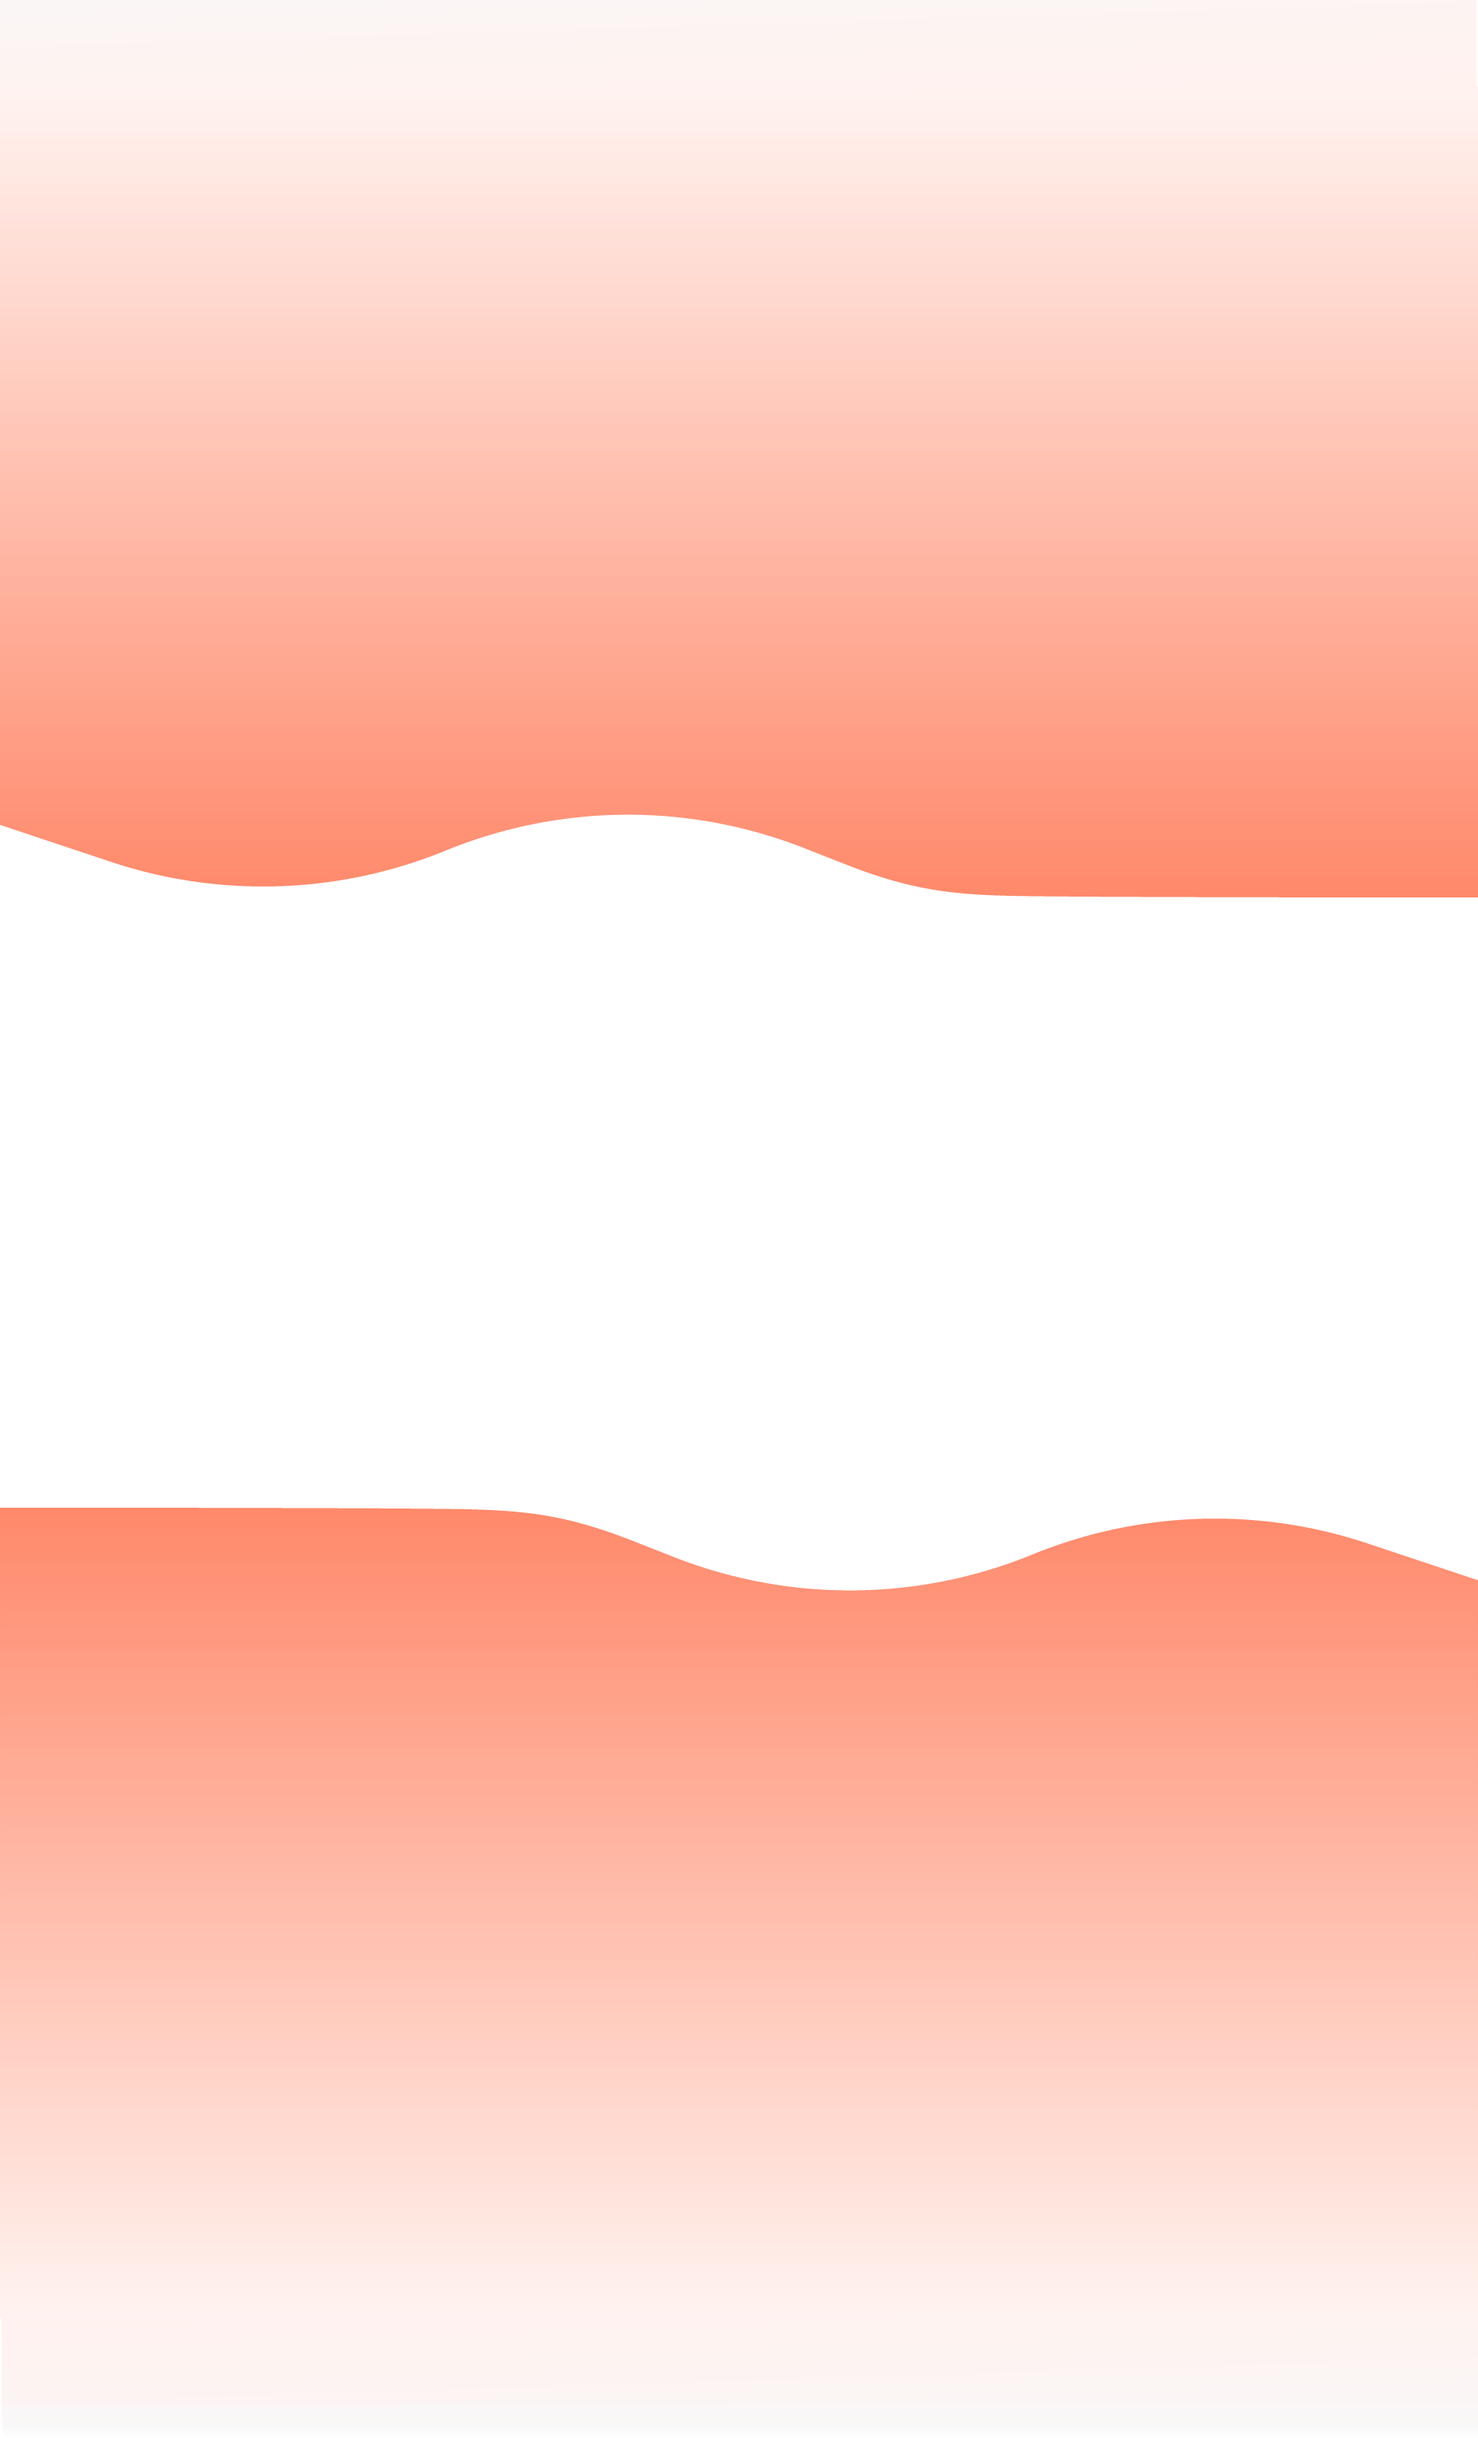
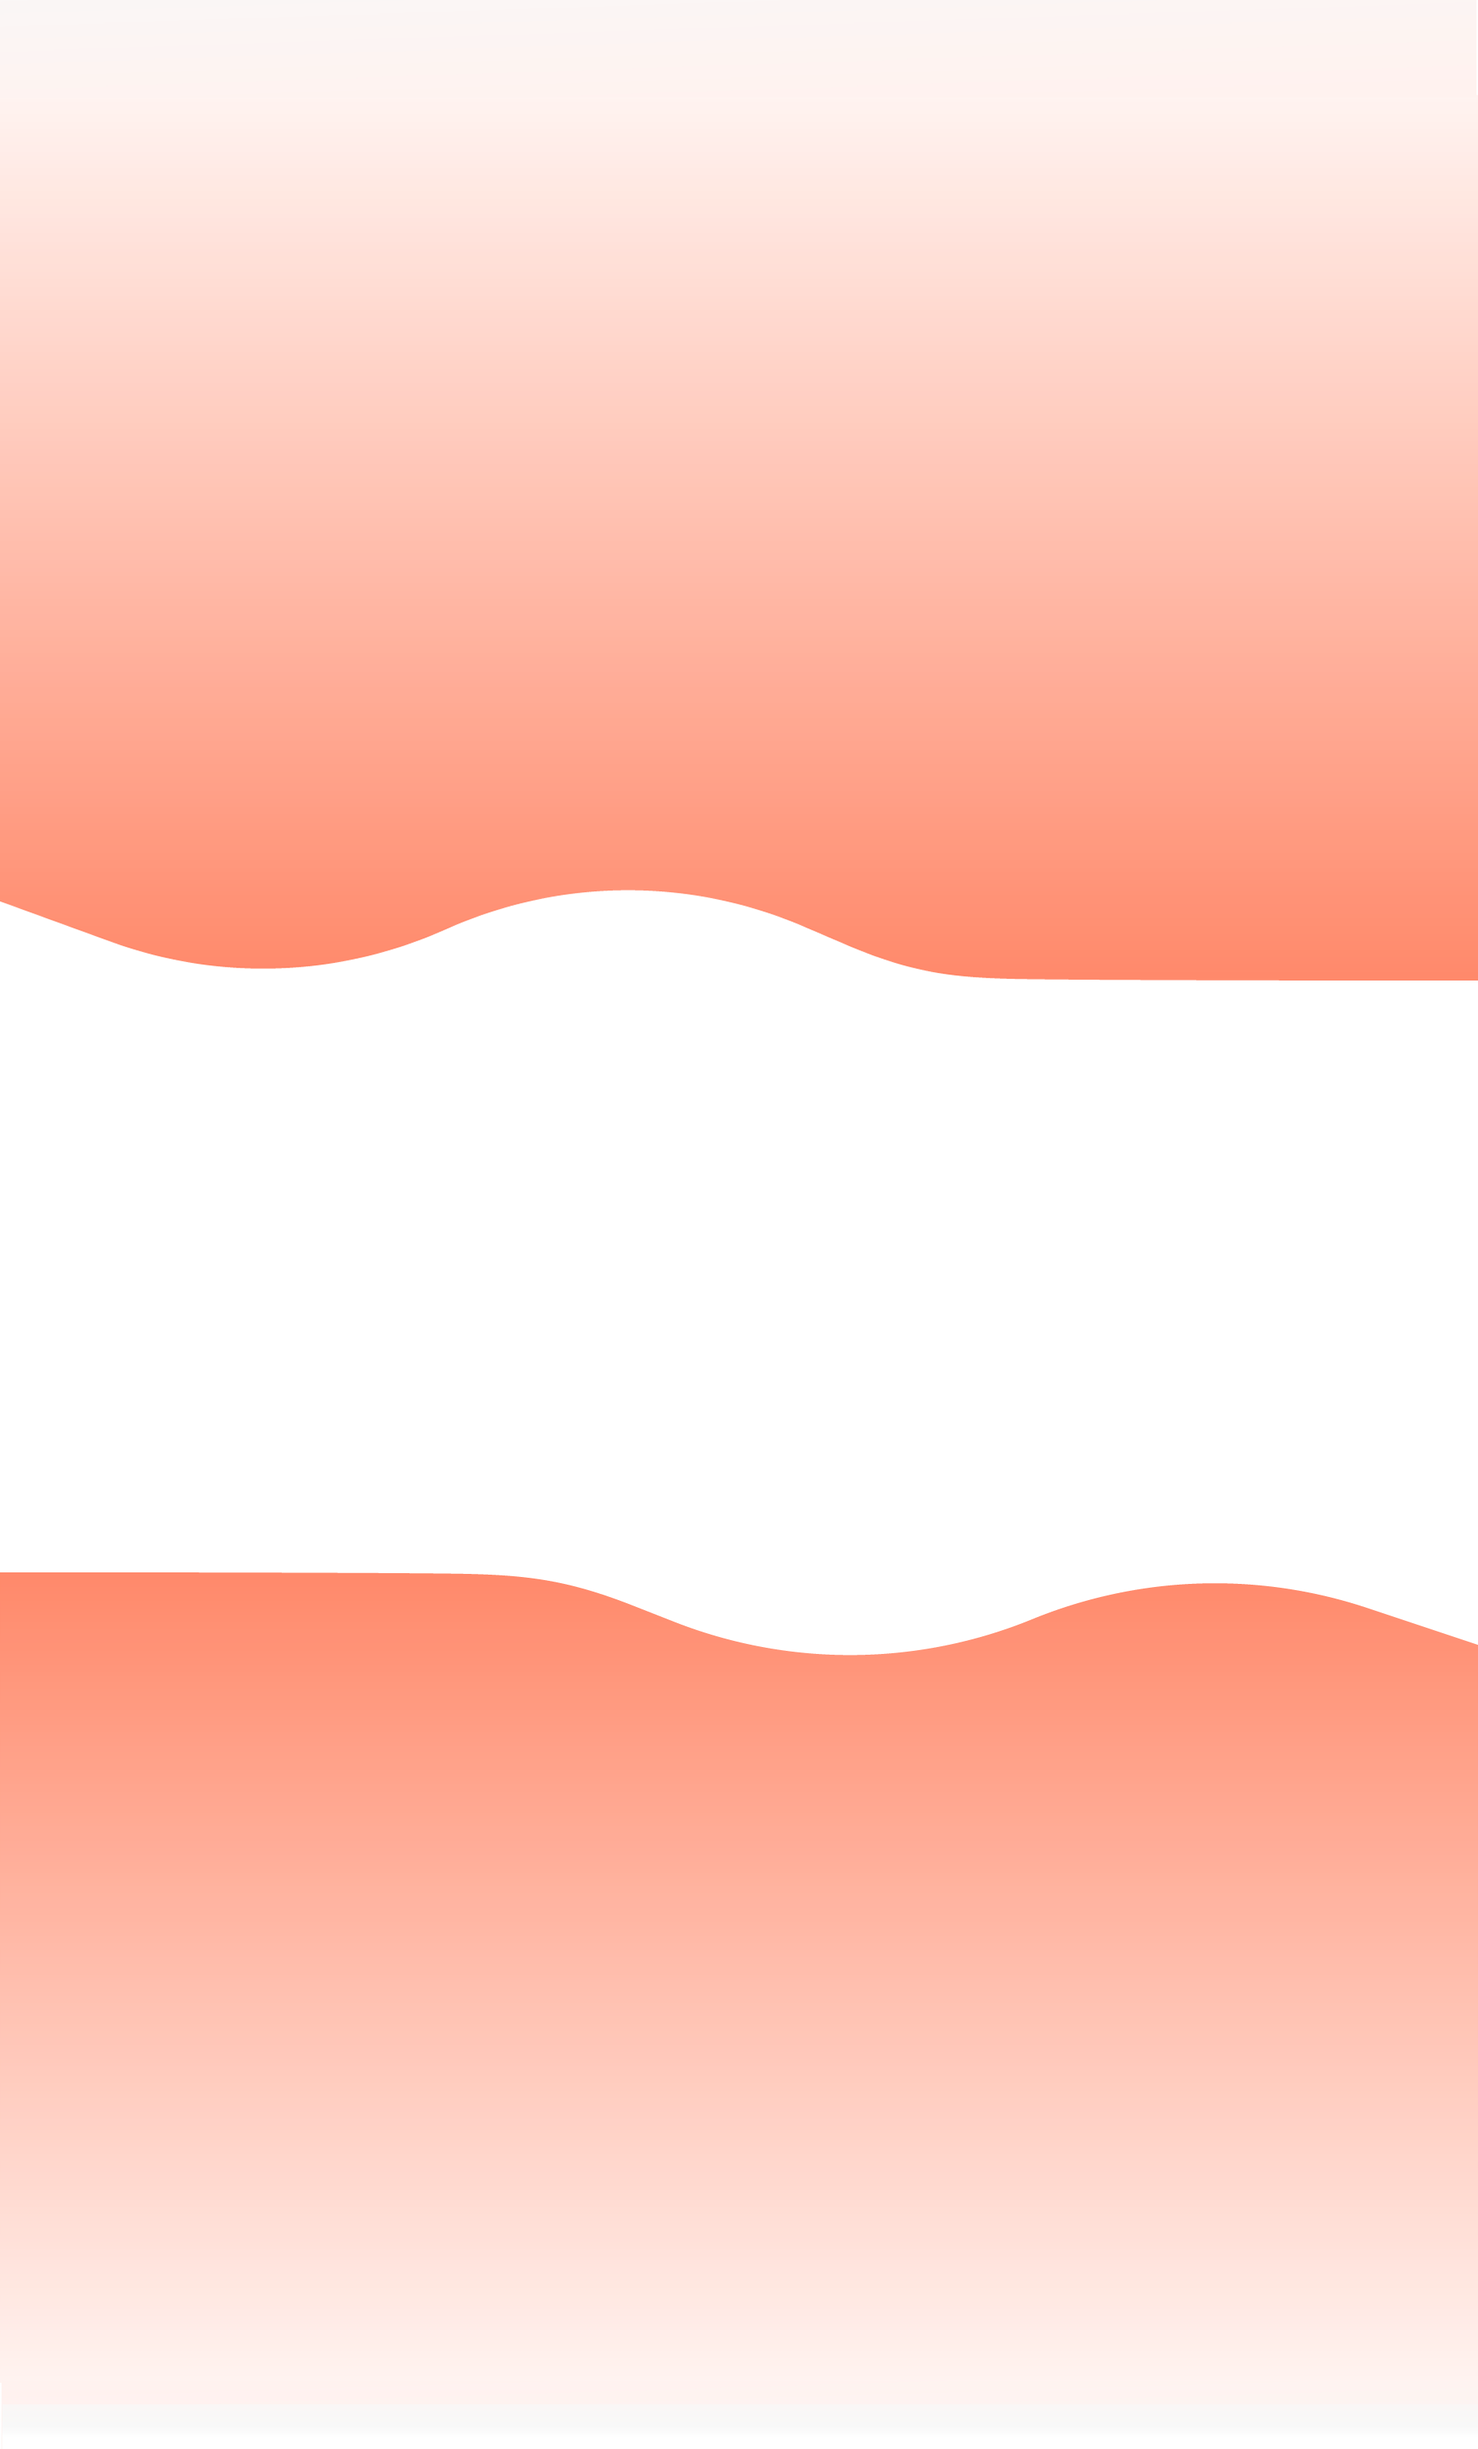
bug fix

Changed region(s): [[0.0, 0.3111, 1.0, 0.4045], [0.0, 0.5911, 1.0, 0.6845]]

diff --git a/src/App.js b/src/App.js
@@ -35,7 +35,7 @@ let styles = (theme) => ({
 		paddingTop: 10,
 		paddingBottom: 5,
 		fontFamily: 'ANC',
-		marginTop: '1vw',
+		marginTop: '0vw',
 		color: 'red',
 		lineHeight: 1,
 		[theme.breakpoints.between('xs', 'sm')]: {
@@ -153,7 +153,7 @@ let styles = (theme) => ({
 	},
 	p21:{
 		[theme.breakpoints.between('xs', 'sm')]: {
-			height: '50vh'
+			height: '60vh'
 		},
 		[theme.breakpoints.up('sm')]: {
 			height: '60.9vw'
@@ -161,7 +161,7 @@ let styles = (theme) => ({
 	},
 	p22:{
 		[theme.breakpoints.between('xs', 'sm')]: {
-			height: '50vh'
+			height: '40vh'
 		},
 		[theme.breakpoints.up('sm')]: {
 			height: '50vw'
